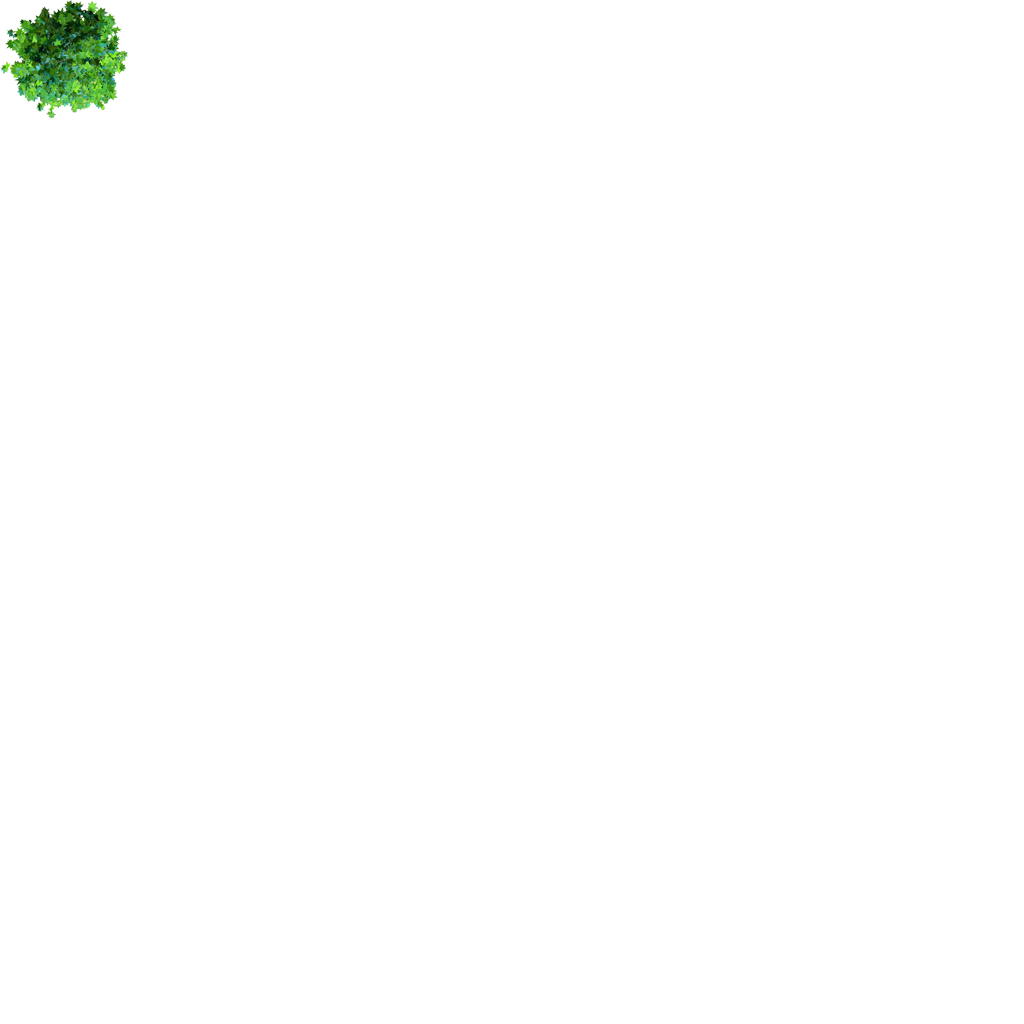
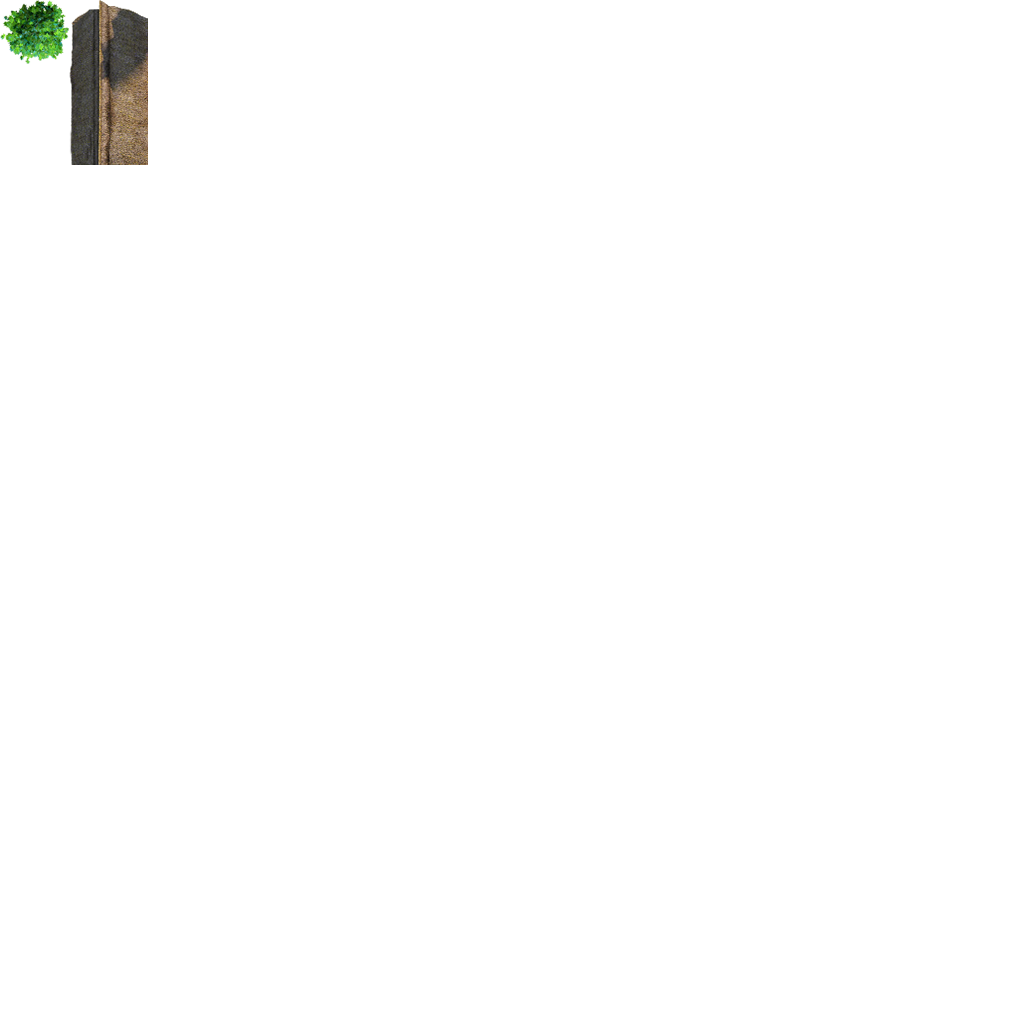
Добавлены 2 ветки танков

Changed region(s): [[0.0, 0.0, 0.1562, 0.1875]]

diff --git a/Tank Wars/Map.cpp b/Tank Wars/Map.cpp
@@ -7,8 +7,9 @@ Map::Map(Texture &background, Texture &texObjects,
     this->background.setTexture(background);
     this->background.setPosition(0, 0);
     switch (lvl) {
-    case 0: objects.push_back(new GameObject(Vector2f(600, 600), texObjects, IntRect(0, 0, 128, 120)));
-        objects.push_back(new GameObject(Vector2f(1000, 1500), texObjects, IntRect(0, 0, 128, 120)));
+    case 0: objects.push_back(new GameObject(Vector2f(600, 600), texObjects, IntRect(0, 0, 68, 63)));
+        objects.push_back(new GameObject(Vector2f(1000, 1500), texObjects, IntRect(0, 0, 68, 63)));
+        objects.push_back(new GameObject(Vector2f(1000, 600), texObjects, IntRect(72, 0, 75, 164)));
     }
 }
 

diff --git a/Tank Wars/Enemy.h b/Tank Wars/Enemy.h
@@ -47,7 +47,8 @@ public:
 
     Enemy(Vector2f pos, Texture *texDynObjs, TankCharacteristic tank);
     void update(double time, Tank &player, std::list<Bullet*> &bullets,
-        std::list<GameObject*> &objects, std::list<Animation*> &anims);
+        std::list<GameObject*> &objects, std::list<Animation*> &anims,
+        std::list<Enemy*> &enemies);
     
     void setAngle(double angle);
 
